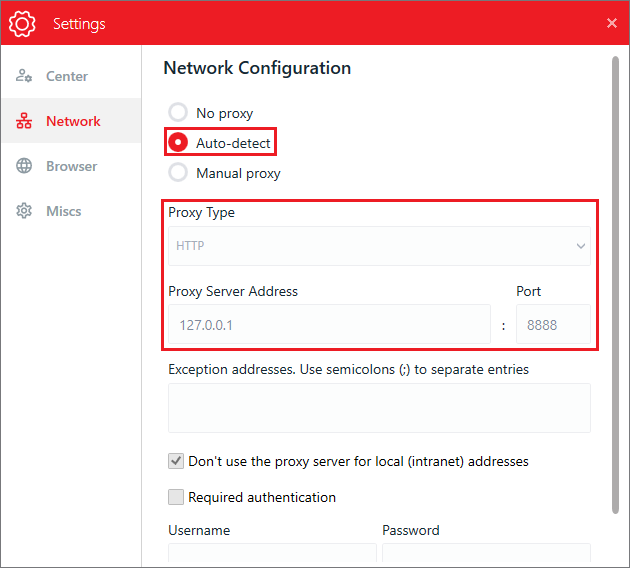
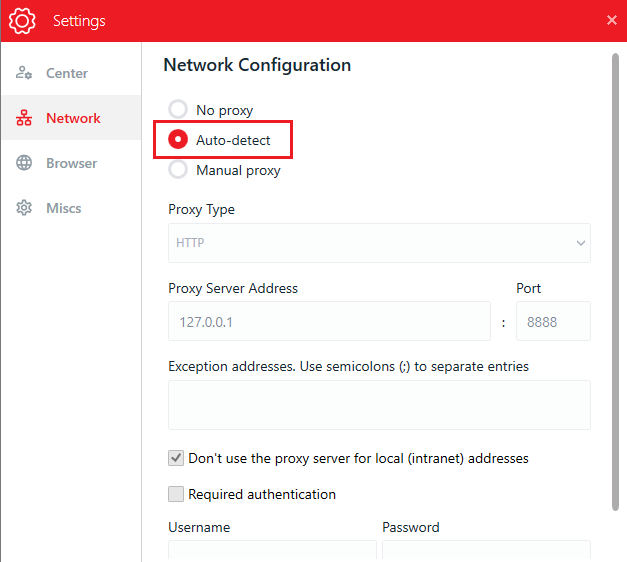
docs: enhance Ask AI configuration guide with images and formatting improvements

diff --git a/docs/studio/latest/installation/configure-ask-ai.md b/docs/studio/latest/installation/configure-ask-ai.md
@@ -22,7 +22,13 @@ This document guides users and IT Administrators on how to inspect, configure, a
 First, determine which AI server address (URL) your Studio client is pointing to.
 
 1. Locate and open the configuration file `RCAStudio.exe.config`. Default file path: `"C:\Program Files\FPT Software\akaBot Platform\RCAStudio.exe.config"`
+
+![rcastudio-config](/static/img/rcastudio-config.png)
+
 2. Search for the configuration key: **`AskAIWorkerApiUrl`** and retrieve its value (e.g., `https://akabot-chatbot-worker.buianhdat305.workers.dev`).
+
+![askAiWorkerApiUrl](/static/img/askAiWorkerApiUrl.png)
+
 3. Open **PowerShell** on the user's machine and run the following command to check if the workstation can reach the AI server address:
 
 ```powershell
@@ -31,8 +37,9 @@ First, determine which AI server address (URL) your Studio client is pointing to
 # Verify domain name resolution and connection to Port 443 (HTTPS)
 Test-NetConnection -ComputerName akabot-chatbot-worker.buianhdat305.workers.dev -Port 443
 ```
-* **If `TcpTestSucceeded : True`**: The transport layer (TCP) connection is functioning normally.
-* **If `TcpTestSucceeded : False` or timeout error**: The network connection is being blocked.
+
+- **If `TcpTestSucceeded : True`**: The transport layer (TCP) connection is functioning normally.
+- **If `TcpTestSucceeded : False` or timeout error**: The network connection is being blocked.
 
 ![powershell](/static/img/powershell.png)
 
@@ -42,10 +49,8 @@ Test-NetConnection -ComputerName akabot-chatbot-worker.buianhdat305.workers.dev 
 
 If your organization requires internet traffic to go through a proxy server, you must configure the proxy settings for akaBot Studio.
 
-akaBot reads the proxy configuration from the system-wide settings file:
-* **File Path**: `C:\ProgramData\akaBot\settings.json`
-
 ### Steps to configure via UI:
+
 Open akaBot Agent -> Go to **Network** tab -> Configure **Proxy**
 
 1. **AutoDetect (Recommended for enterprise networks)**: Automatically inherits proxy settings from the Windows operating system (Internet Options).
@@ -61,19 +66,19 @@ Open akaBot Agent -> Go to **Network** tab -> Configure **Proxy**
 ![no-proxy](/static/img/no-proxy.png)
 
 ---
+
 **Step 3: Request Firewalls / Web Filters Whitelisting**
 
 If the network access is blocked by security policies, contact your organization's IT or Network Administrator and request they add the following addresses and ports to the allowlist:
 
-| Destination Type | Address / Domain Name | Port | Protocol | Purpose |
-| :--- | :--- | :--- | :--- | :--- |
-| **AI Server** | The address configured under `AskAIWorkerApiUrl` (e.g., `akabot-chatbot-worker.buianhdat305.workers.dev`) | `443` | HTTPS | Sends analysis requests and receives responses from the AI. |
+| Destination Type | Address / Domain Name                                                                                     | Port  | Protocol | Purpose                                                     |
+| :--------------- | :-------------------------------------------------------------------------------------------------------- | :---- | :------- | :---------------------------------------------------------- |
+| **AI Server**    | The address configured under `AskAIWorkerApiUrl` (e.g., `akabot-chatbot-worker.buianhdat305.workers.dev`) | `443` | HTTPS    | Sends analysis requests and receives responses from the AI. |
 
 ### Specific API Endpoints of the AI Service that must be allowed through:
-* `POST /device/enroll` - Registers and enrolls device identification for the first time.
-* `POST /chat` - Sends and receives messages to/from the AI.
-* `POST /device/quota` - Checks the usage quota of the account/device.
-* `POST /expression/generate` - Automatically generates conditional expressions for activities.
-* `POST /session/upload` - Uploads feedback data for self-learning and response quality assessment.
 
-
+- `POST /device/enroll` - Registers and enrolls device identification for the first time.
+- `POST /chat` - Sends and receives messages to/from the AI.
+- `POST /device/quota` - Checks the usage quota of the account/device.
+- `POST /expression/generate` - Automatically generates conditional expressions for activities.
+- `POST /session/upload` - Uploads feedback data for self-learning and response quality assessment.